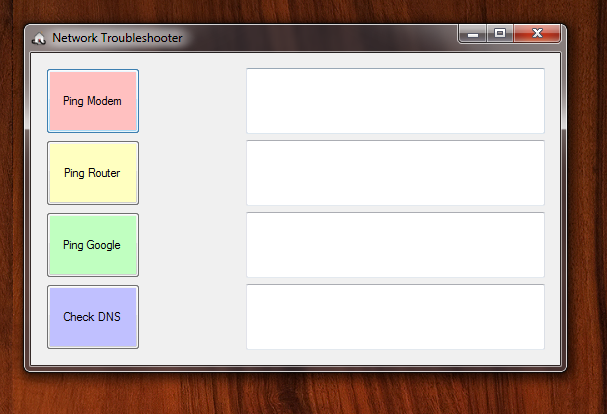
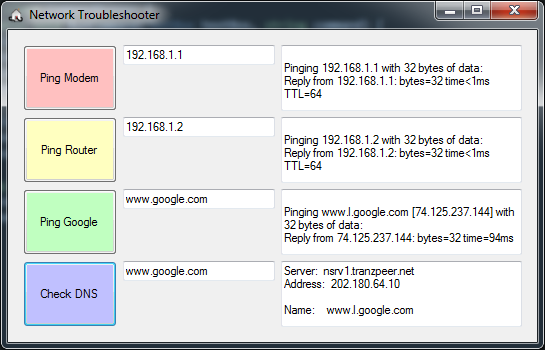
Cmd line output displaying in text box
Need to work on making it run on seperate thread from GUI and also using
regex on the ouput to generalize how the command went

diff --git a/NetworkTroubleShooter/Form1.Designer.cs b/NetworkTroubleShooter/Form1.Designer.cs
@@ -33,6 +33,10 @@
 			this.textBoxPingRouter = new System.Windows.Forms.TextBox();
 			this.textBoxPingGoogle = new System.Windows.Forms.TextBox();
 			this.textBoxCheckDNS = new System.Windows.Forms.TextBox();
+			this.textBoxEnterModem = new System.Windows.Forms.TextBox();
+			this.textBoxEnterRouter = new System.Windows.Forms.TextBox();
+			this.textBoxEnterGoogle = new System.Windows.Forms.TextBox();
+			this.textBoxEnterDns = new System.Windows.Forms.TextBox();
 			this.tableLayoutPanel1.SuspendLayout();
 			this.SuspendLayout();
 			// 
@@ -40,7 +44,7 @@
 			// 
 			this.tableLayoutPanel1.ColumnCount = 3;
 			this.tableLayoutPanel1.ColumnStyles.Add(new System.Windows.Forms.ColumnStyle(System.Windows.Forms.SizeType.Absolute, 100F));
-			this.tableLayoutPanel1.ColumnStyles.Add(new System.Windows.Forms.ColumnStyle(System.Windows.Forms.SizeType.Absolute, 100F));
+			this.tableLayoutPanel1.ColumnStyles.Add(new System.Windows.Forms.ColumnStyle(System.Windows.Forms.SizeType.Absolute, 158F));
 			this.tableLayoutPanel1.ColumnStyles.Add(new System.Windows.Forms.ColumnStyle(System.Windows.Forms.SizeType.Percent, 100F));
 			this.tableLayoutPanel1.Controls.Add(this.btnPingModem, 0, 0);
 			this.tableLayoutPanel1.Controls.Add(this.btnPingRouter, 0, 1);
@@ -50,6 +54,10 @@
 			this.tableLayoutPanel1.Controls.Add(this.textBoxPingRouter, 2, 1);
 			this.tableLayoutPanel1.Controls.Add(this.textBoxPingGoogle, 2, 2);
 			this.tableLayoutPanel1.Controls.Add(this.textBoxCheckDNS, 2, 3);
+			this.tableLayoutPanel1.Controls.Add(this.textBoxEnterModem, 1, 0);
+			this.tableLayoutPanel1.Controls.Add(this.textBoxEnterRouter, 1, 1);
+			this.tableLayoutPanel1.Controls.Add(this.textBoxEnterGoogle, 1, 2);
+			this.tableLayoutPanel1.Controls.Add(this.textBoxEnterDns, 1, 3);
 			this.tableLayoutPanel1.Location = new System.Drawing.Point(12, 12);
 			this.tableLayoutPanel1.Name = "tableLayoutPanel1";
 			this.tableLayoutPanel1.RowCount = 4;
@@ -118,35 +126,63 @@
 			// 
 			// textBoxPingModem
 			// 
-			this.textBoxPingModem.Location = new System.Drawing.Point(203, 3);
+			this.textBoxPingModem.Location = new System.Drawing.Point(261, 3);
 			this.textBoxPingModem.Multiline = true;
 			this.textBoxPingModem.Name = "textBoxPingModem";
-			this.textBoxPingModem.Size = new System.Drawing.Size(299, 66);
+			this.textBoxPingModem.Size = new System.Drawing.Size(241, 66);
 			this.textBoxPingModem.TabIndex = 2;
 			// 
 			// textBoxPingRouter
 			// 
-			this.textBoxPingRouter.Location = new System.Drawing.Point(203, 75);
+			this.textBoxPingRouter.Location = new System.Drawing.Point(261, 75);
 			this.textBoxPingRouter.Multiline = true;
 			this.textBoxPingRouter.Name = "textBoxPingRouter";
-			this.textBoxPingRouter.Size = new System.Drawing.Size(299, 66);
+			this.textBoxPingRouter.Size = new System.Drawing.Size(241, 66);
 			this.textBoxPingRouter.TabIndex = 2;
 			// 
 			// textBoxPingGoogle
 			// 
-			this.textBoxPingGoogle.Location = new System.Drawing.Point(203, 147);
+			this.textBoxPingGoogle.Location = new System.Drawing.Point(261, 147);
 			this.textBoxPingGoogle.Multiline = true;
 			this.textBoxPingGoogle.Name = "textBoxPingGoogle";
-			this.textBoxPingGoogle.Size = new System.Drawing.Size(299, 66);
+			this.textBoxPingGoogle.Size = new System.Drawing.Size(241, 66);
 			this.textBoxPingGoogle.TabIndex = 2;
 			// 
 			// textBoxCheckDNS
 			// 
-			this.textBoxCheckDNS.Location = new System.Drawing.Point(203, 219);
+			this.textBoxCheckDNS.Location = new System.Drawing.Point(261, 219);
 			this.textBoxCheckDNS.Multiline = true;
 			this.textBoxCheckDNS.Name = "textBoxCheckDNS";
-			this.textBoxCheckDNS.Size = new System.Drawing.Size(299, 66);
+			this.textBoxCheckDNS.Size = new System.Drawing.Size(241, 66);
 			this.textBoxCheckDNS.TabIndex = 2;
+			// 
+			// textBoxEnterModem
+			// 
+			this.textBoxEnterModem.Location = new System.Drawing.Point(103, 3);
+			this.textBoxEnterModem.Name = "textBoxEnterModem";
+			this.textBoxEnterModem.Size = new System.Drawing.Size(152, 20);
+			this.textBoxEnterModem.TabIndex = 3;
+			// 
+			// textBoxEnterRouter
+			// 
+			this.textBoxEnterRouter.Location = new System.Drawing.Point(103, 75);
+			this.textBoxEnterRouter.Name = "textBoxEnterRouter";
+			this.textBoxEnterRouter.Size = new System.Drawing.Size(152, 20);
+			this.textBoxEnterRouter.TabIndex = 4;
+			// 
+			// textBoxEnterGoogle
+			// 
+			this.textBoxEnterGoogle.Location = new System.Drawing.Point(103, 147);
+			this.textBoxEnterGoogle.Name = "textBoxEnterGoogle";
+			this.textBoxEnterGoogle.Size = new System.Drawing.Size(152, 20);
+			this.textBoxEnterGoogle.TabIndex = 5;
+			// 
+			// textBoxEnterDns
+			// 
+			this.textBoxEnterDns.Location = new System.Drawing.Point(103, 219);
+			this.textBoxEnterDns.Name = "textBoxEnterDns";
+			this.textBoxEnterDns.Size = new System.Drawing.Size(152, 20);
+			this.textBoxEnterDns.TabIndex = 6;
 			// 
 			// Form1
 			// 
@@ -176,6 +212,10 @@
 		private System.Windows.Forms.TextBox textBoxPingRouter;
 		private System.Windows.Forms.TextBox textBoxPingGoogle;
 		private System.Windows.Forms.TextBox textBoxCheckDNS;
+		private System.Windows.Forms.TextBox textBoxEnterModem;
+		private System.Windows.Forms.TextBox textBoxEnterRouter;
+		private System.Windows.Forms.TextBox textBoxEnterGoogle;
+		private System.Windows.Forms.TextBox textBoxEnterDns;
 	}
 }
 

diff --git a/NetworkTroubleShooter/Form1.cs b/NetworkTroubleShooter/Form1.cs
@@ -15,27 +15,30 @@ namespace NetworkTroubleShooter {
 
 		public Form1() {
 			InitializeComponent();
+			textBoxEnterModem.Text = modemIp;
+			textBoxEnterRouter.Text = routerIp;
+			textBoxEnterGoogle.Text = googleAddress;
+			textBoxEnterDns.Text = googleAddress;
 		}
 
 		private void btnPingModem_Click(object sender, EventArgs e) {
-			textBoxPingModem.Text += "Hey bro\n";
-			CLIRunner.RunCommand(string.Format("ping {0}", modemIp));
+			string command = string.Format("ping {0}", textBoxEnterModem.Text);
+			CommandRunner.RunCommand(textBoxPingModem, command);
 		}
 
 		private void btnPingRouter_Click(object sender, EventArgs e) {
-
+			string command = string.Format("ping {0}", textBoxEnterRouter.Text);
+			CommandRunner.RunCommand(textBoxPingRouter, command);
 		}
 
 		private void btnPingGoogle_Click(object sender, EventArgs e) {
-
+			string command = string.Format("ping {0}", textBoxEnterGoogle.Text);
+			CommandRunner.RunCommand(textBoxPingGoogle, command);
 		}
 
 		private void btnCheckDNS_Click(object sender, EventArgs e) {
-
-		}
-
-		private void StartCommand(string command) {
-
+			string command = string.Format("nslookup {0}", textBoxEnterDns.Text);
+			CommandRunner.RunCommand(textBoxCheckDNS, command);
 		}
 	}
 }

diff --git a/NetworkTroubleShooter/CommandRunner.cs b/NetworkTroubleShooter/CommandRunner.cs
@@ -1,0 +1,25 @@
+using System;
+using System.Collections.Generic;
+using System.Linq;
+using System.Text;
+using System.Windows.Forms;
+using System.Diagnostics;
+
+namespace NetworkTroubleShooter {
+	public static class CommandRunner {
+		public static void RunCommand(TextBox textBox, string command) {
+			ProcessStartInfo startInfo = new ProcessStartInfo("cmd", "/c " + command);
+			startInfo.RedirectStandardOutput = true;
+			startInfo.UseShellExecute = false;
+			startInfo.CreateNoWindow = true;
+			
+			Process process = new Process();
+			process.StartInfo = startInfo;
+			process.Start();
+
+			string output = process.StandardOutput.ReadToEnd();
+			process.WaitForExit();
+			textBox.Text = output;
+		}
+	}
+}
